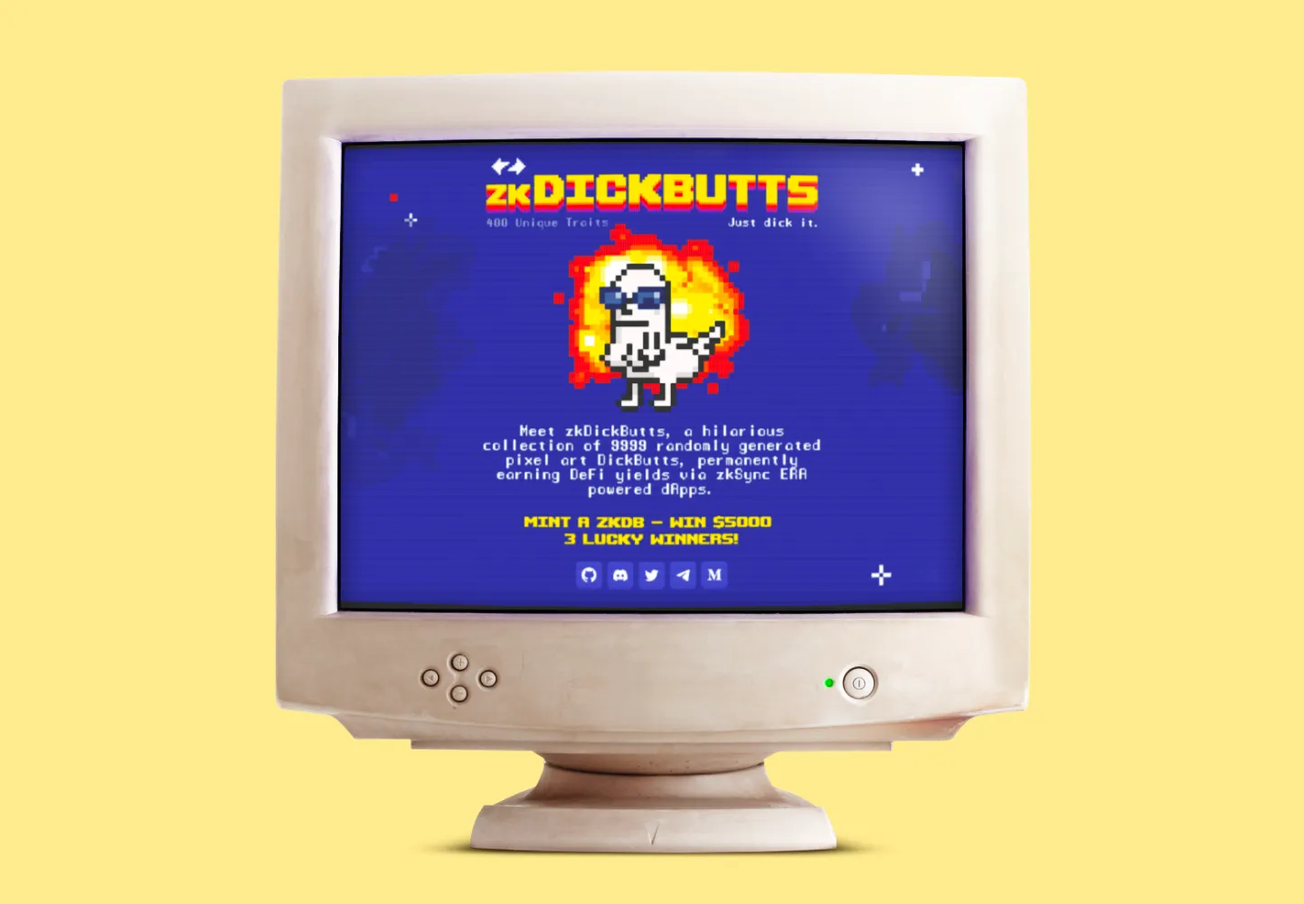
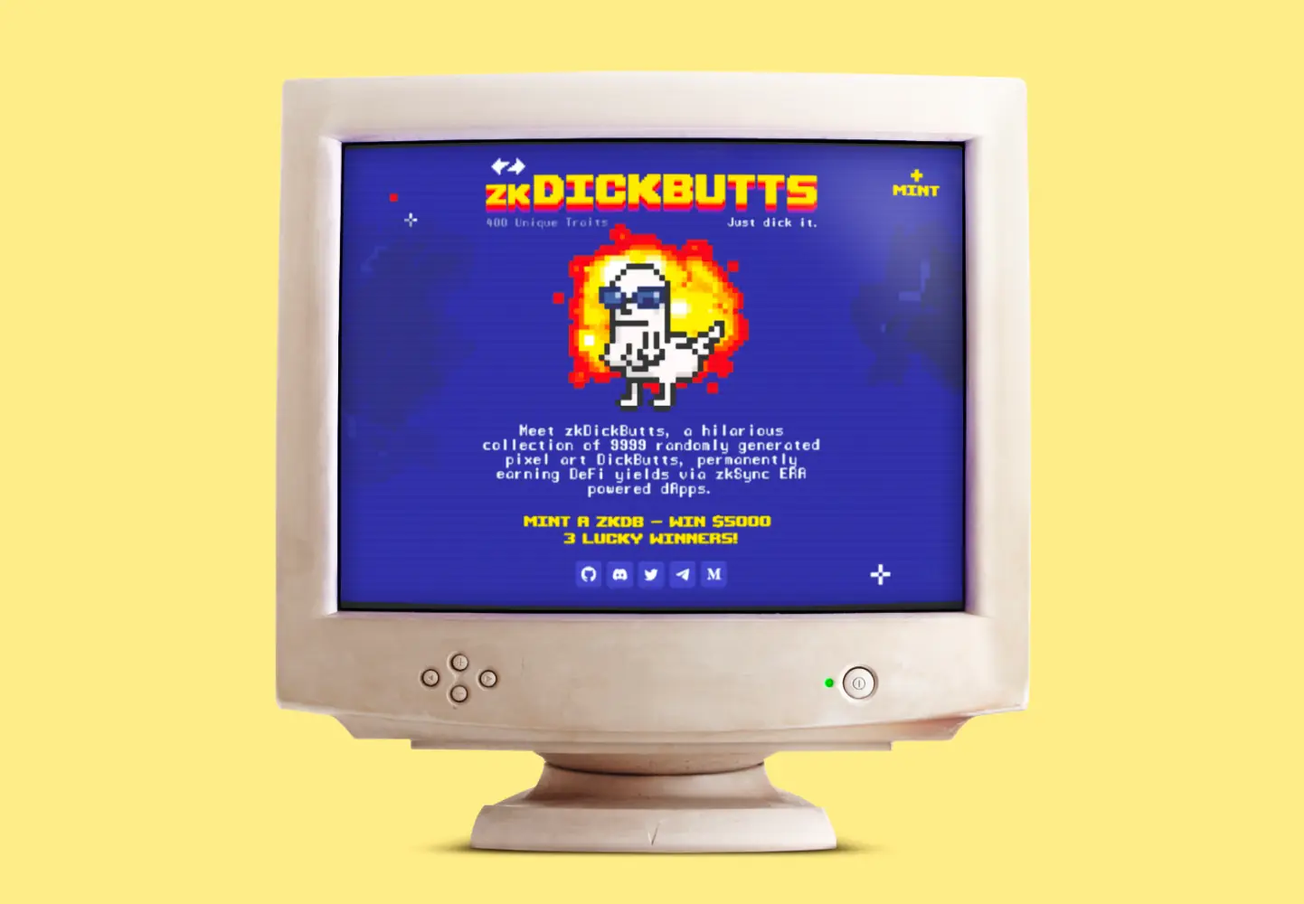
Update DickButts project copy and add mint image

diff --git a/src/views/project-detail.tsx b/src/views/project-detail.tsx
@@ -44,7 +44,14 @@ import cryptovecheImg from "@/assets/cryptoveche_cover.webp";
 import uxResearchImg from "@/assets/ux_research_cover.webp";
 import pholendImg from "@/assets/pholend_cover.webp";
 import dickbuttsImg from "@/assets/dickbutts_cover_v2.webp";
+import zkDickbuttsImg from "@/assets/zkDickButts_1.webp";
+import dickbuttsMintImg from "@/assets/DickButts - Mint.jpg";
 import skiziCoverImg from "@/assets/skizi_cover_new.webp";
+import skiziSlide1 from "@/assets/skizi_slide_1.webp";
+import skiziSlide2 from "@/assets/skizi_slide_2.webp";
+import skiziSlide3 from "@/assets/skizi_slide_3.webp";
+import skiziSlide4 from "@/assets/skizi_slide_4.webp";
+import skiziSlide5 from "@/assets/skizi_slide_5.webp";
 
 import twoGoCoverImg from "@/assets/2go_cover.webp";
 import zoodaoCoverImg from "@/assets/zoodao_cover_v3.webp";
@@ -93,6 +100,14 @@ const maatSlides: LightboxItem[] = [
   { src: maatSlide12.src, alt: "MAAT Presentation Slide 12" },
   { src: maatSlide13.src, alt: "MAAT Presentation Slide 13" },
   { src: maatSlide14.src, alt: "MAAT Presentation Slide 14" }
+];
+
+const skiziSlides: LightboxItem[] = [
+  { src: skiziSlide1.src, alt: "SKIZI Slide 1" },
+  { src: skiziSlide2.src, alt: "SKIZI Slide 2" },
+  { src: skiziSlide3.src, alt: "SKIZI Slide 3" },
+  { src: skiziSlide4.src, alt: "SKIZI Slide 4" },
+  { src: skiziSlide5.src, alt: "SKIZI Slide 5" }
 ];
 
 const glacisSchemeSlides: LightboxItem[] = [
@@ -346,7 +361,7 @@ export default function ProjectDetail() {
             initial={{ opacity: 0 }}
             animate={{ opacity: 1 }}
             exit={{ opacity: 0 }}
-            className="fixed inset-0 z-[200] bg-black/35 flex items-center justify-center overflow-hidden p-4 md:p-8"
+            className="fixed inset-0 z-[200] bg-black/65 flex items-center justify-center overflow-hidden p-4 md:p-8"
             onClick={closeLightbox}
             onTouchStart={(event) => {
               if (lightboxZoom > 1) return;
@@ -521,16 +536,16 @@ export default function ProjectDetail() {
                     @Ann_uskova <ArrowUpRight className="w-4 h-4" />
                   </span>
                 </a>
-                <a href={contactData.linkedinUrl} target="_blank" rel="noopener noreferrer" className="flex items-center justify-between p-6 border border-gray-200 rounded-[18px] hover:bg-gray-50 transition-colors group" data-testid="link-linkedin">
-                  <span className="text-lg">{t.contact.linkedin}</span>
-                  <span className="text-gray-500 group-hover:text-black transition-colors flex items-center gap-2">
-                    Anna Uskova <ArrowUpRight className="w-4 h-4" />
-                  </span>
-                </a>
                 <a href={contactData.emailUrl} className="flex items-center justify-between p-6 border border-gray-200 rounded-[18px] hover:bg-gray-50 transition-colors group" data-testid="link-email">
                   <span className="text-lg">{t.contact.email}</span>
                   <span className="text-gray-500 group-hover:text-black transition-colors flex items-center gap-2">
                     anyauskowa@yandex.ru <ArrowUpRight className="w-4 h-4" />
+                  </span>
+                </a>
+                <a href={contactData.linkedinUrl} target="_blank" rel="noopener noreferrer" className="flex items-center justify-between p-6 border border-gray-200 rounded-[18px] hover:bg-gray-50 transition-colors group" data-testid="link-linkedin">
+                  <span className="text-lg">{t.contact.linkedin}</span>
+                  <span className="text-gray-500 group-hover:text-black transition-colors flex items-center gap-2">
+                    Anna Uskova <ArrowUpRight className="w-4 h-4" />
                   </span>
                 </a>
                 
@@ -634,7 +649,7 @@ export default function ProjectDetail() {
                   : <>Investor presentation deck for the MAAT protocol.<br/>Some data is blurred intentionally.</>
               ) : project.id === 3 ? (
                 language === "ru"
-                  ? "СКИЗИ – это система, которая помогает учитывать и контролировать использование «зелёных» инструментов и прав. В ней пользователь может зафиксировать, передать и «погасить» зелёные права, а ещё хранит всю информацию по ним и выдаёт её по запросу."
+                  ? "СКИЗИ (Система координации использования зелёных инструментов) – это система учёта зелёных сертификатов и прав. В ней можно передавать права между владельцами и «погашать» их – отмечать как использованные, когда компания хочет подтвердить потребление зелёной энергии."
                   : project.description
               ) : project.id === 1 ? (
                 language === "ru"
@@ -721,14 +736,14 @@ export default function ProjectDetail() {
                       />
                       <button
                         onClick={() => setMaatInlineIndex((prev) => (prev - 1 + maatSlides.length) % maatSlides.length)}
-                        className="absolute left-3 top-1/2 -translate-y-1/2 w-10 h-10 rounded-full bg-black/35 hover:bg-black/50 text-white flex items-center justify-center transition-colors"
+                        className="absolute left-3 top-1/2 -translate-y-1/2 w-10 h-10 rounded-full bg-black/65 hover:bg-black/80 text-white flex items-center justify-center transition-colors"
                         aria-label="Previous slide"
                       >
                         <ChevronLeft className="w-5 h-5" />
                       </button>
                       <button
                         onClick={() => setMaatInlineIndex((prev) => (prev + 1) % maatSlides.length)}
-                        className="absolute right-3 top-1/2 -translate-y-1/2 w-10 h-10 rounded-full bg-black/35 hover:bg-black/50 text-white flex items-center justify-center transition-colors"
+                        className="absolute right-3 top-1/2 -translate-y-1/2 w-10 h-10 rounded-full bg-black/65 hover:bg-black/80 text-white flex items-center justify-center transition-colors"
                         aria-label="Next slide"
                       >
                         <ChevronRight className="w-5 h-5" />
@@ -756,6 +771,70 @@ export default function ProjectDetail() {
                     src={projectImages[project.id] || ""} 
                     alt={`${project.title} Cover`} 
                     className="w-full h-auto object-cover"
+                  />
+                </div>
+              </div>
+            )}
+
+            {project.id === 3 && language === "ru" && (
+              <div className="max-w-[calc(56rem-80px)] mb-16">
+                <p className="text-lg text-gray-600 leading-relaxed mb-8">
+                  Я была единственным дизайнером на проекте, вела его с нуля до запуска (1,5 года). Много взаимодействовала с бизнесом и разработкой, много разговаривала с заказчиками (на тот момент – Совет рынка).
+                </p>
+                <p className="text-lg text-gray-600 leading-relaxed mb-8">
+                  Разработка проекта началась с тендера – за три дня нужно было задизайнить несколько экранов системы и описать, как она будет работать. Для тендера я сделала такие макеты (и мы выиграли 😎):
+                </p>
+
+                <div className="relative -mr-[calc((100vw-100%)/2)] w-[calc(100%+((100vw-100%)/2))]">
+                  <div
+                    ref={scrollContainerRef2}
+                    onMouseDown={handleMouseDown2}
+                    onMouseLeave={() => setIsDragging2(false)}
+                    onMouseUp={() => setIsDragging2(false)}
+                    onMouseMove={handleMouseMove2}
+                    className={`flex overflow-x-auto pb-4 gap-6 no-scrollbar ${isDragging2 ? 'cursor-grabbing select-none' : 'cursor-grab'}`}
+                  >
+                    {skiziSlides.map((img, idx) => (
+                      <div key={img.src} className="flex-shrink-0 w-[85vw] md:w-[900px]">
+                        <div
+                          onClick={() => !hasMoved2 && openLightbox(skiziSlides, idx)}
+                          className={`rounded-3xl overflow-hidden border border-gray-100 shadow-sm bg-white ${isDragging2 ? 'cursor-grabbing' : 'cursor-grab'}`}
+                        >
+                          <img
+                            src={img.src}
+                            alt={img.alt}
+                            className="w-full aspect-video object-cover object-top pointer-events-none"
+                          />
+                        </div>
+                      </div>
+                    ))}
+                    <div className="flex-shrink-0 w-[calc((100vw-100%)/2)]" />
+                  </div>
+                </div>
+              </div>
+            )}
+
+            {project.id === 9 && language === "ru" && (
+              <div className="max-w-[calc(56rem-80px)] mb-16">
+                <p className="text-lg text-gray-600 leading-relaxed mb-8">
+                  За пару дней я собрала лендинг и страницу покупки, а дизайнер NFTшек дополнил мой макет пиксельным взывом на фон. Моей целью было понятно рассказать о продукте, подкрепить рассказ социальными доказательствами и довести пользователя до покупки. На странице минт – развести два сценария приобретения, дать все вводные для покупки и понятную кнопку действия.
+                </p>
+
+                <div className="mt-8 rounded-3xl overflow-hidden border border-gray-100 shadow-sm bg-white max-w-[750px]">
+                  <img
+                    src={zkDickbuttsImg.src}
+                    alt="zkDickButts landing page"
+                    className="w-full h-auto object-contain cursor-pointer"
+                    onClick={() => openSingleImage(zkDickbuttsImg.src, "zkDickButts landing page")}
+                  />
+                </div>
+
+                <div className="mt-6 rounded-3xl overflow-hidden border border-gray-100 shadow-sm bg-white max-w-[750px]">
+                  <img
+                    src={dickbuttsMintImg.src}
+                    alt="DickButts mint page"
+                    className="w-full h-auto object-contain cursor-pointer"
+                    onClick={() => openSingleImage(dickbuttsMintImg.src, "DickButts mint page")}
                   />
                 </div>
               </div>
@@ -822,7 +901,7 @@ export default function ProjectDetail() {
                           <img 
                             src={img.src} 
                             alt={img.alt} 
-                            className="w-full h-auto object-contain pointer-events-none"
+                            className="w-full aspect-video object-cover object-top pointer-events-none"
                           />
                         </div>
                       </div>
@@ -857,7 +936,7 @@ export default function ProjectDetail() {
                    {language === "ru" ? "Наверху – мини-статистика по всему dApp, которая дает новому пользователю представление о масштабах экосистемы и количестве проходящих через нее транзакций, а пользователю постоянному – возможность отслеживать изменения («ого, было 10 сетей, а сейчас уже 21, как быстро они растут»)." : "At the top is mini-statistics for the entire dApp, giving new users an idea of the ecosystem's scale and transaction volume, and allowing regular users to track changes (“wow, there were 10 networks, now 21, they grow so fast”)."}
                 </p>
                 <p className="text-lg text-gray-600 leading-relaxed mb-12">
-                   {language === "ru" ? "Далее – список последних транзакций с возможностью поиска и фильтрации, а в колонке «Time» еще и сортировка добавлена. Также мы можем переключаться по вкладкам и выбирать продукт – Glacis Core или Airlift (он работает с токенами, но это тонкости)." : "Next is the list of recent transactions with search and filtering, and sorting added to the “Time” column. We can also switch tabs to choose the product – Glacis Core or Airlift (it works with tokens, but that's a detail)."}
+                   {language === "ru" ? "Далее – список последних транзакций в табличном представлении – довольно привычно для аудитории и типично для сканеров. Поисковая строка для быстрой проверки, фильтры – если ищу закономерности, сортировка по времени. Изначально делили транзакции по продуктам (вкладки Glacis core и AirLift), но после тестирования объединили их в одну таблицу – убрали лишний шаг, оставив возможность фильтрации по продукту." : "Next is the list of recent transactions with search and filtering, and sorting added to the “Time” column. We can also switch tabs to choose the product – Glacis Core or Airlift (it works with tokens, but that's a detail)."}
                 </p>
 
                 <h2 className="text-2xl font-medium mb-6">{language === "ru" ? "Детали транзакции" : "Transaction Details"}</h2>
@@ -956,7 +1035,7 @@ export default function ProjectDetail() {
                           <img 
                             src={img.src} 
                             alt={img.alt} 
-                            className="w-full h-auto object-contain pointer-events-none"
+                            className="w-full aspect-video object-cover object-top pointer-events-none"
                           />
                         </div>
                       </div>
@@ -965,6 +1044,17 @@ export default function ProjectDetail() {
                     <div className="flex-shrink-0 w-[calc((100vw-100%)/2)]" />
                   </div>
                 </div>
+
+                <section className="mt-16">
+                  <h2 className="text-2xl font-medium mb-6">
+                    {language === "ru" ? "Итог" : "Outcome"}
+                  </h2>
+                  <p className="text-lg text-gray-600 leading-relaxed">
+                    {language === "ru"
+                      ? "Я спроектировала dApp с упором на быструю диагностику транзакций – от таблицы и поиска до детальных статусов по нескольким бриджам и истории retry. Под изменения продукта (V2 + AirLift) переработала структуру и упростила путь пользователя, добавила расширяемую аналитику с фильтрами и кастомизацией. Параллельно курировала аутсорс по графике и моушену, контролируя качество и соответствие стилю."
+                      : "I designed the dApp around fast transaction troubleshooting: from table view and search to detailed multi-bridge statuses and retry history. When the product evolved (V2 + AirLift), I reworked the structure, removed extra friction, and added scalable analytics with filters and customization. In parallel, I managed outsourced graphics and motion, keeping quality and style consistent."}
+                  </p>
+                </section>
               </div>
             )}
 
@@ -1028,7 +1118,7 @@ export default function ProjectDetail() {
                             <img 
                               src={img.src} 
                               alt={img.alt} 
-                              className="w-full h-auto object-contain pointer-events-none"
+                              className="w-full aspect-video object-cover object-top pointer-events-none"
                             />
                           </div>
                         </div>
@@ -1066,7 +1156,7 @@ export default function ProjectDetail() {
                             <img 
                               src={img.src} 
                               alt={img.alt} 
-                              className="w-full h-auto object-contain pointer-events-none"
+                              className="w-full aspect-video object-cover object-top pointer-events-none"
                             />
                           </div>
                         </div>
@@ -1320,7 +1410,7 @@ export default function ProjectDetail() {
                                     src={img.src} 
                                     alt={img.alt} 
                                     loading="lazy"
-                                    className="w-full h-auto object-contain pointer-events-none"
+                                    className="w-full aspect-video object-cover object-top pointer-events-none"
                                   />
                                 </div>
                               </div>

diff --git a/src/views/home.tsx b/src/views/home.tsx
@@ -61,7 +61,7 @@ export default function Home() {
   const currentProject = hasProjects ? projects[safeActiveProject] : null;
 
   const stats = [
-    { label: t.stats.experience, value: "8+" },
+    { label: t.stats.experience, value: "7+" },
     { label: t.stats.projects, value: "30+" },
     { label: t.stats.location, value: t.stats.locationValue }
   ];
@@ -173,6 +173,18 @@ export default function Home() {
                 </a>
 
                 <a 
+                  href={contactData.emailUrl}
+                  className="flex items-center justify-between p-6 border border-gray-200 rounded-[18px] hover:bg-gray-50 transition-colors group"
+                  data-testid="link-email"
+                >
+                  <span className="text-lg">{t.contact.email}</span>
+                  <span className="text-gray-500 group-hover:text-black transition-colors flex items-center gap-2">
+                    {contactData.email}
+                    <ArrowUpRight className="w-4 h-4" />
+                  </span>
+                </a>
+
+                <a 
                   href={contactData.linkedinUrl}
                   target="_blank"
                   rel="noopener noreferrer"
@@ -182,18 +194,6 @@ export default function Home() {
                   <span className="text-lg">{t.contact.linkedin}</span>
                   <span className="text-gray-500 group-hover:text-black transition-colors flex items-center gap-2">
                     {contactData.linkedin}
-                    <ArrowUpRight className="w-4 h-4" />
-                  </span>
-                </a>
-
-                <a 
-                  href={contactData.emailUrl}
-                  className="flex items-center justify-between p-6 border border-gray-200 rounded-[18px] hover:bg-gray-50 transition-colors group"
-                  data-testid="link-email"
-                >
-                  <span className="text-lg">{t.contact.email}</span>
-                  <span className="text-gray-500 group-hover:text-black transition-colors flex items-center gap-2">
-                    {contactData.email}
                     <ArrowUpRight className="w-4 h-4" />
                   </span>
                 </a>

diff --git a/src/views/projects.tsx b/src/views/projects.tsx
@@ -149,16 +149,16 @@ export default function Projects() {
                     @Ann_uskova <ArrowUpRight className="w-4 h-4" />
                   </span>
                 </a>
-                <a href={contactData.linkedinUrl} target="_blank" rel="noopener noreferrer" className="flex items-center justify-between p-6 border border-gray-200 rounded-[18px] hover:bg-gray-50 transition-colors group" data-testid="link-linkedin">
-                  <span className="text-lg">{t.contact.linkedin}</span>
-                  <span className="text-gray-500 group-hover:text-black transition-colors flex items-center gap-2">
-                    Anna Uskova <ArrowUpRight className="w-4 h-4" />
-                  </span>
-                </a>
                 <a href={contactData.emailUrl} className="flex items-center justify-between p-6 border border-gray-200 rounded-[18px] hover:bg-gray-50 transition-colors group" data-testid="link-email">
                   <span className="text-lg">{t.contact.email}</span>
                   <span className="text-gray-500 group-hover:text-black transition-colors flex items-center gap-2">
                     anyauskowa@yandex.ru <ArrowUpRight className="w-4 h-4" />
+                  </span>
+                </a>
+                <a href={contactData.linkedinUrl} target="_blank" rel="noopener noreferrer" className="flex items-center justify-between p-6 border border-gray-200 rounded-[18px] hover:bg-gray-50 transition-colors group" data-testid="link-linkedin">
+                  <span className="text-lg">{t.contact.linkedin}</span>
+                  <span className="text-gray-500 group-hover:text-black transition-colors flex items-center gap-2">
+                    Anna Uskova <ArrowUpRight className="w-4 h-4" />
                   </span>
                 </a>
                 

diff --git a/src/lib/translations.ts b/src/lib/translations.ts
@@ -6,7 +6,7 @@ export const translations = {
       contact: "Contact"
     },
     hero: {
-      title: "Hi! I'm Anna Uskova — a product designer with 8+ years in the industry.",
+      title: "Hi! I'm Anna Uskova — a product designer with 7+ years in the industry.",
       description: "I work with high-load systems, DeFi protocols \nand B2C products – from research to polished UI.",
       viewWork: "Explore projects",
       getInTouch: "Get in touch"
@@ -80,7 +80,7 @@ export const translations = {
       contact: "Контакты"
     },
     hero: {
-      title: "Привет! Я Аня Ускова —\nпродуктовый дизайнер\nс опытом 8+ лет.",
+      title: "Привет! Я Аня Ускова —\nпродуктовый дизайнер\nс опытом 7+ лет.",
       description: "Проектирую сложные системы, DeFi протоколы\nи B2C продукты.",
       viewWork: "Смотреть работы",
       getInTouch: "Связаться"
@@ -459,7 +459,7 @@ Lock + Voting
       category: "NFT",
       role: "Senior Designer",
       title: "DickButts",
-      description: "За пару дней собрала дизайн лендинга NFT коллекции DickButts."
+      description: "DickButts – лендинг для NFT-коллекции из 9999 пиксельных персонажей, где пользователю нужно быстро понять, что это за проект, и перейти к одному из двух действий – покупке или whitelist claim (бесплатный клейм по вайтлисту)."
     },
     {
       id: 10,
